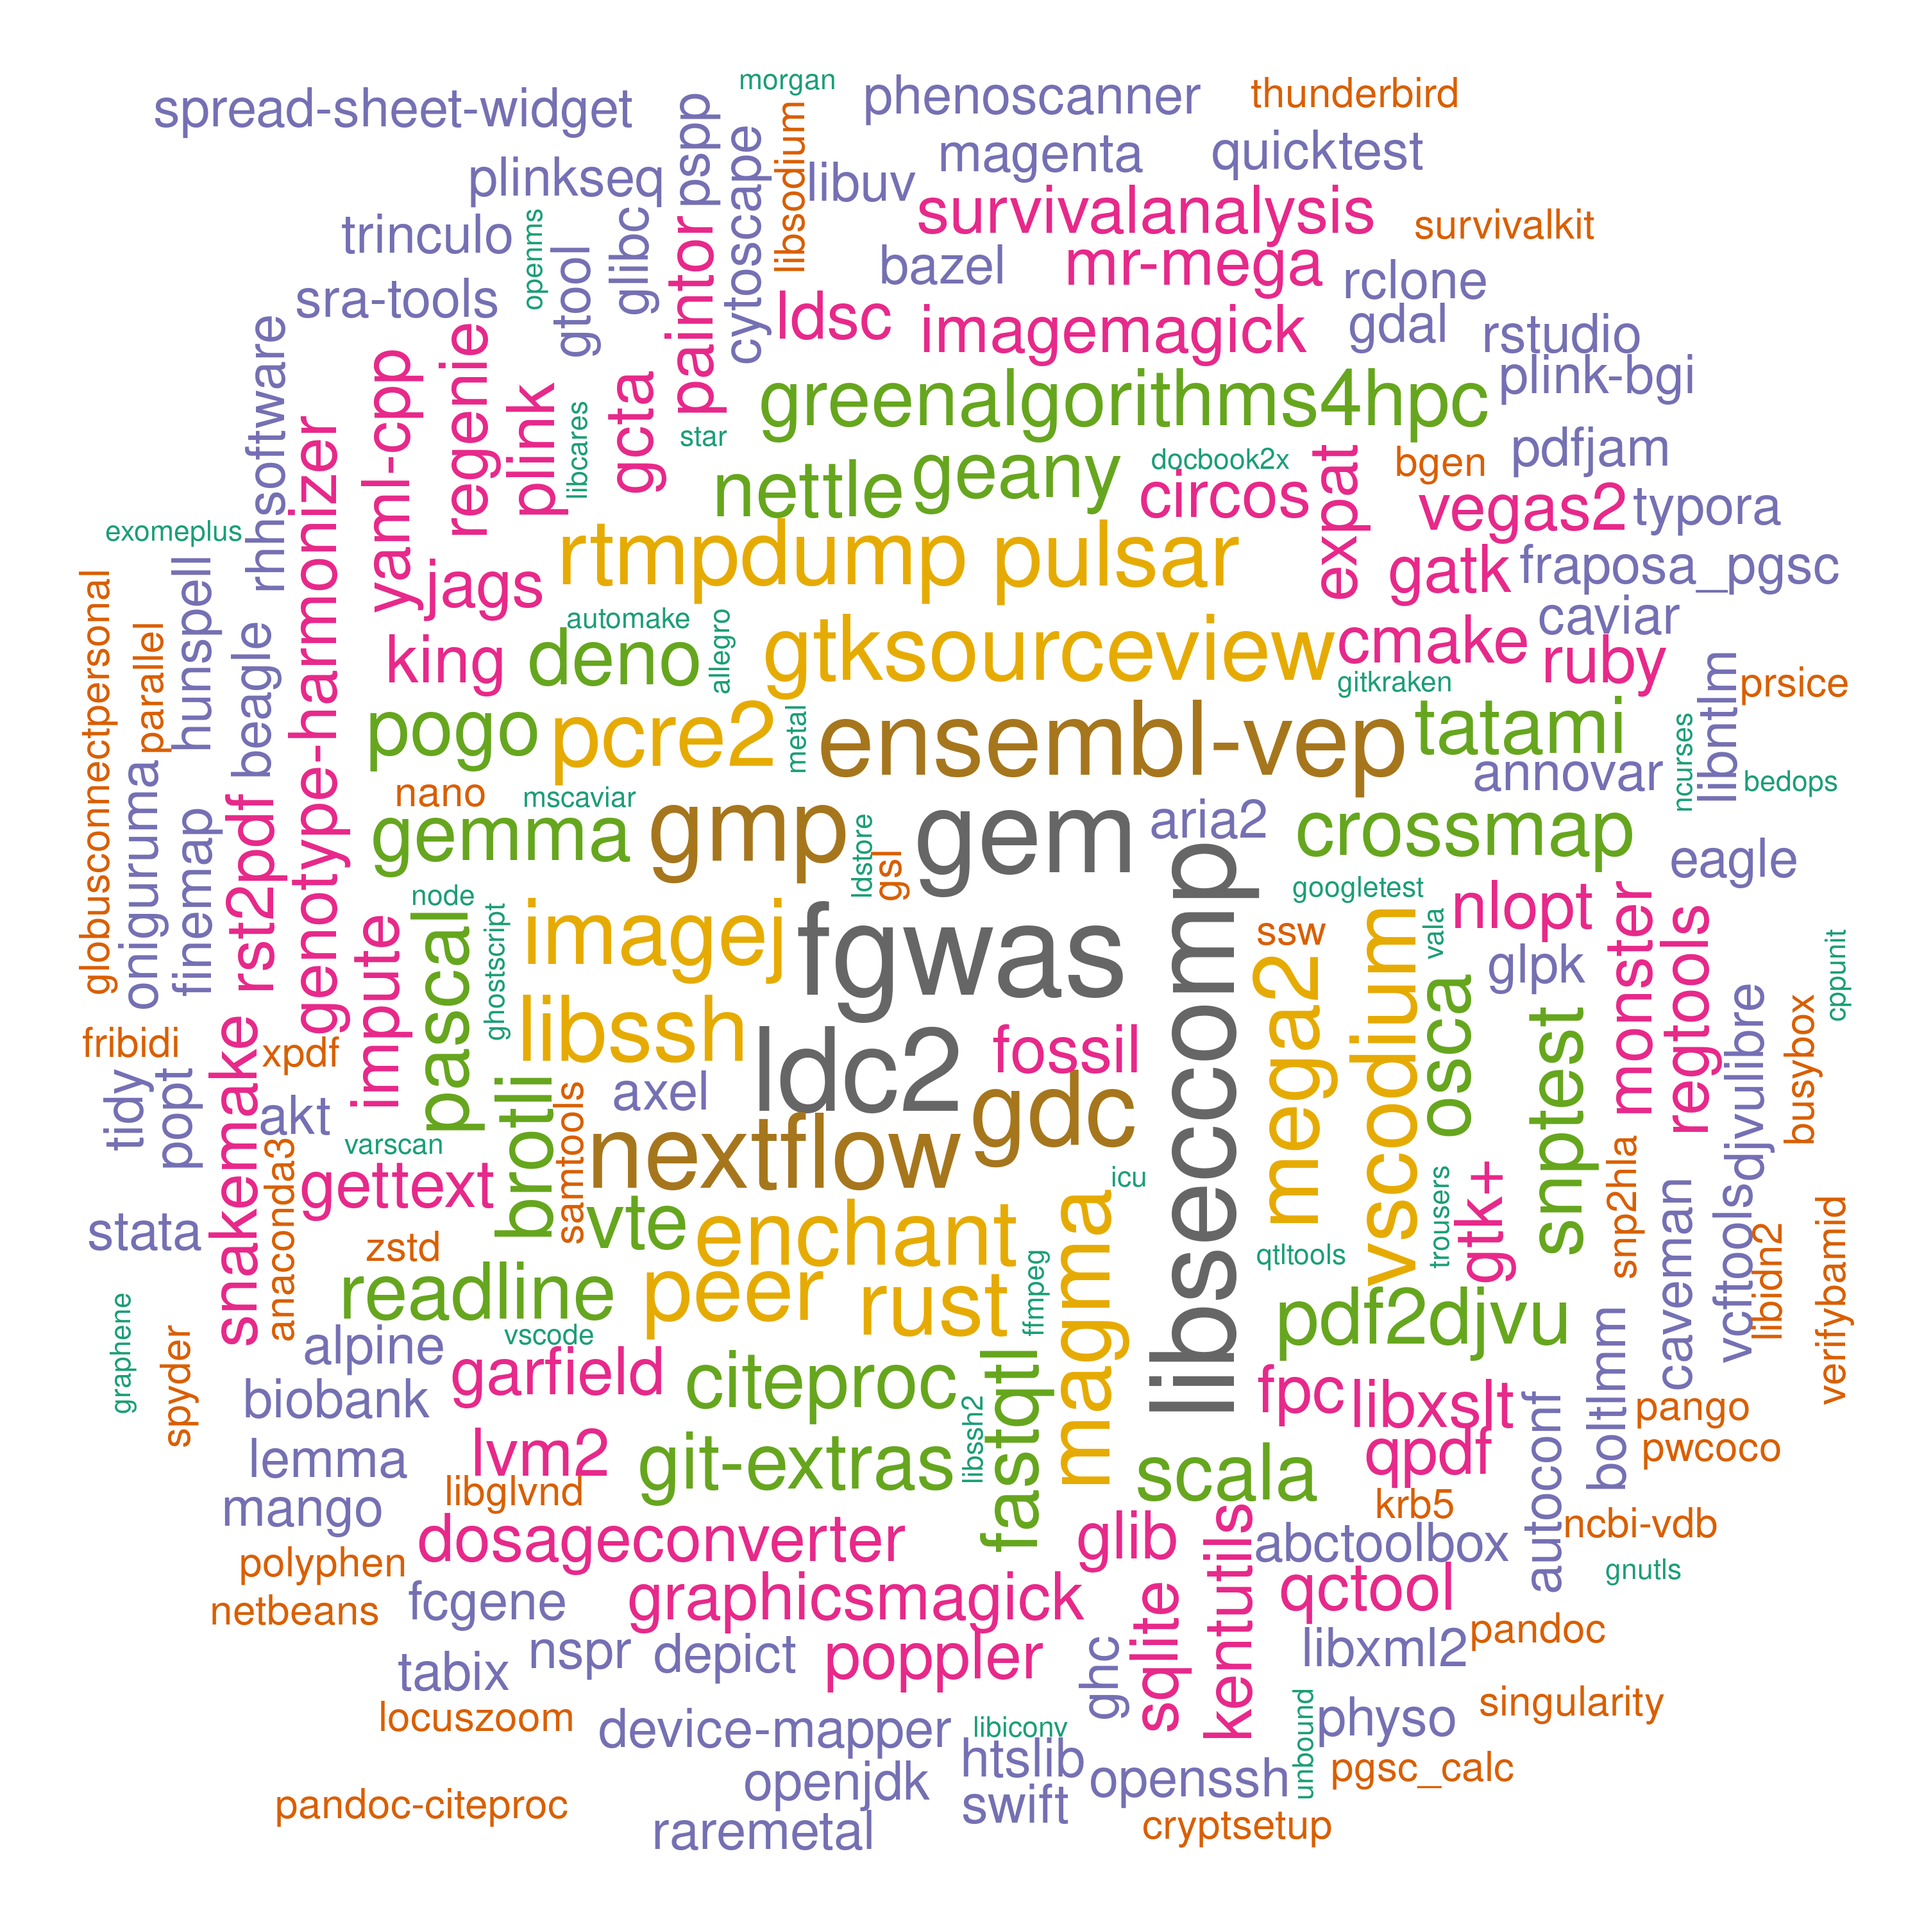
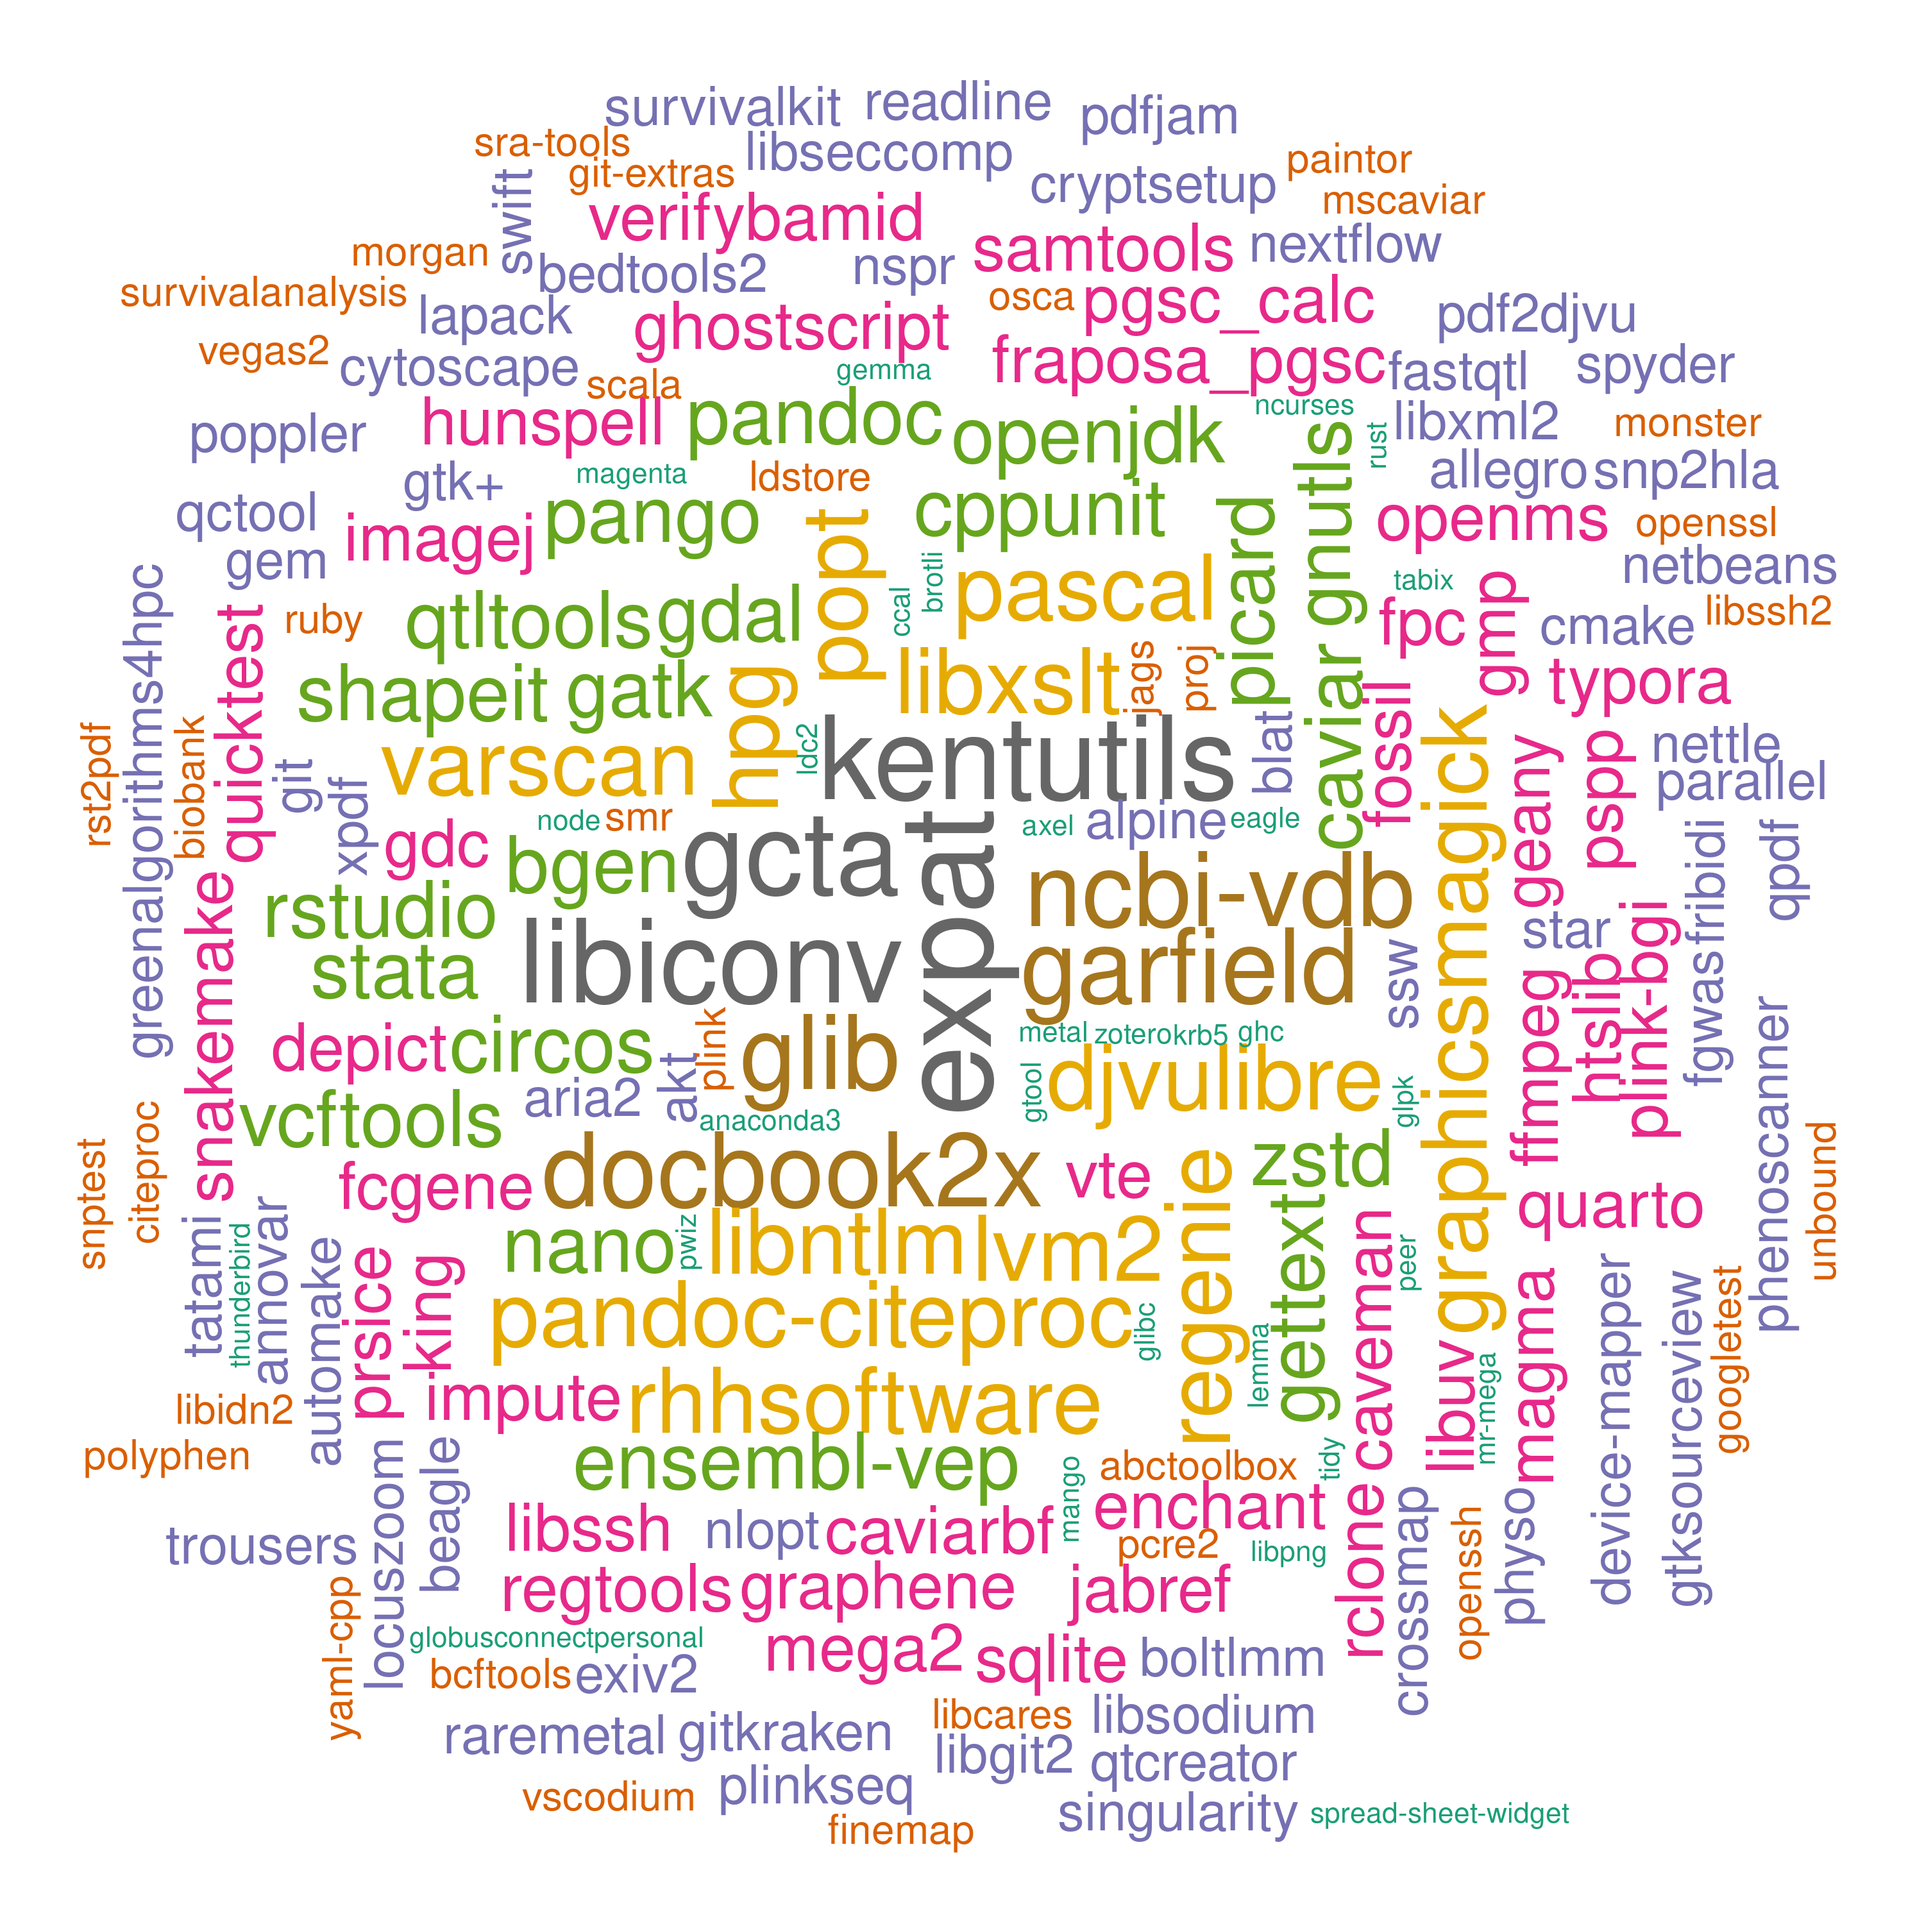
./

Changed region(s): [[0.031, 0.031, 0.961, 0.961]]

diff --git a/systems/ceuadmin.md b/systems/ceuadmin.md
@@ -8,7 +8,7 @@ The CEU software repository is here, **/usr/local/Cluster-Apps/ceuadmin/**.
 
 ![ceuadmin](ceuadmin.png)
 
-noting that the importance of software is purely random according to $$Poisson(N,\lambda)$$ where $$N=227$$, $$\lambda=3$$.
+noting that the importance of software is purely random according to $$Poisson(N,\lambda)$$ where $$N=228$$, $$\lambda=3$$.
 
 ## Entries
 
@@ -57,21 +57,21 @@ The current list is as follows,
 [157] "PhySO"                 "picard"                "plink"                 "plink-bgi"
 [161] "plinkseq"              "PoGo"                  "polyphen"              "poppler"
 [165] "popt"                  "proj"                  "PRSice"                "pspp"
-[169] "pulsar"                "PWCoCo"                "qctool"                "qpdf"
-[173] "qt"                    "qtcreator"             "QTLtools"              "quarto"
-[177] "quicktest"             "R"                     "raremetal"             "rclone"
-[181] "readline"              "regenie"               "regtools"              "RHHsoftware"
-[185] "rst2pdf"               "rstudio"               "rtmpdump"              "ruby"
-[189] "rust"                  "samtools"              "Scala"                 "shapeit"
-[193] "singularity"           "SMR"                   "snakemake"             "SNP2HLA"
-[197] "snptest"               "spread-sheet-widget"   "spyder"                "sqlite"
-[201] "sra-tools"             "ssw"                   "STAR"                  "stata"
-[205] "SurvivalAnalysis"      "SurvivalKit"           "Swift"                 "tabix"
-[209] "tatami"                "thunderbird"           "tidy"                  "trinculo"
-[213] "trousers"              "Typora"                "unbound"               "vala"
-[217] "VarScan"               "vcftools"              "VEGAS2"                "verifyBamID"
-[221] "VSCode"                "VSCodium"              "vte"                   "xpdf"
-[225] "yaml-cpp"              "Zotero"                "zstd"
+[169] "pulsar"                "PWCoCo"                "pwiz"                  "qctool"
+[173] "qpdf"                  "qt"                    "qtcreator"             "QTLtools"
+[177] "quarto"                "quicktest"             "R"                     "raremetal"
+[181] "rclone"                "readline"              "regenie"               "regtools"
+[185] "RHHsoftware"           "rst2pdf"               "rstudio"               "rtmpdump"
+[189] "ruby"                  "rust"                  "samtools"              "Scala"
+[193] "shapeit"               "singularity"           "SMR"                   "snakemake"
+[197] "SNP2HLA"               "snptest"               "spread-sheet-widget"   "spyder"
+[201] "sqlite"                "sra-tools"             "ssw"                   "STAR"
+[205] "stata"                 "SurvivalAnalysis"      "SurvivalKit"           "Swift"
+[209] "tabix"                 "tatami"                "thunderbird"           "tidy"
+[213] "trinculo"              "trousers"              "Typora"                "unbound"
+[217] "vala"                  "VarScan"               "vcftools"              "VEGAS2"
+[221] "verifyBamID"           "VSCode"                "VSCodium"              "vte"
+[225] "xpdf"                  "yaml-cpp"              "Zotero"                "zstd"
 ```
 
 These are wrapped up as :star::star::star: **[modules](https://modules.readthedocs.io/en/latest/index.html)** :star::star::star:.

diff --git a/systems/setup.md b/systems/setup.md
@@ -271,7 +271,7 @@ All entries are ordered chronologically.
 | 2024-04-29  | ImageMagick/7.1.1-31             | Generic[^ImageMagick]|
 | 2024-05-15  | rtmpdump/2.3                     | Generic[^rtmpdump]   |
 | 2024-05-22  | spyder/5.5.4                     | Generic[^spyder]     |
-
+| 2024-06-04  | pwiz/3_0_24156_80747de           | Genetics             |
 
 \* CEU or approved users only.
 
